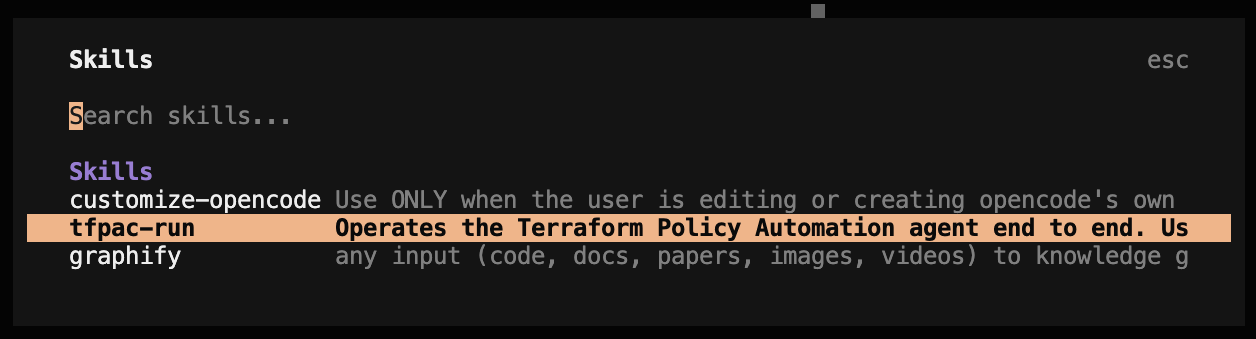
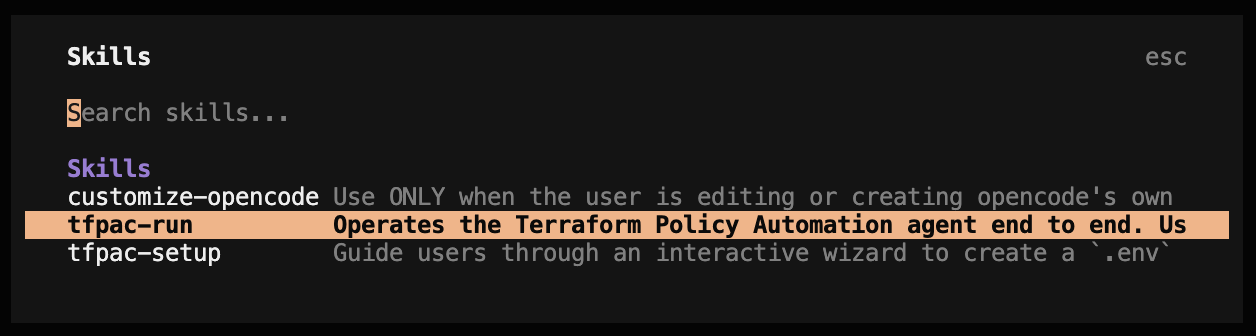
docs: change photos

diff --git a/USER_GUIDE.md b/USER_GUIDE.md
@@ -321,41 +321,35 @@ Press Enter in this state to execute the skill.
 
 ![Local or External](photo/run/(4)local_or_external.png)
 
-Here, select "1. Manual setup".
+Here, select "1. Convert from Sentinel - Manual Setup".
 
-### Step 5: Pre-execution checks
+### Step 5: Output directory cleanup
 
-![Pre-check](photo/run/(5)precheck.png)
-
-The system performs pre-execution checks to verify all requirements are met before starting the conversion.
-
-### Step 6: Output directory cleanup
-
-![Output Cleanup](photo/run/(6)output_cleanup.png)
+![Output Cleanup](photo/run/(5)output_cleanup.png)
 
 If an output directory exists, you will be asked what to do with it. Choose to create a backup or cleanup to avoid conflicts.
 
-### Step 7: Pipeline execution starts
+### Step 6: Pipeline execution starts
 
-![Run Script](photo/run/(7)run.sh.png)
+![Run Script](photo/run/(6)run.sh.png)
 
 The `run.sh` script begins executing the policy conversion pipeline.
 
-### Step 8: Select reporting time interval
+### Step 7: Select reporting time interval
 
-![Time Selection](photo/run/(8)time_selection.png)
+![Time Selection](photo/run/(7)time_selection.png)
 
 Select the time interval for reporting the process status.
 
-### Step 9: Interim progress report
+### Step 8: Interim progress report
 
-![Interim Report](photo/run/(9)interim_report.png)
+![Interim Report](photo/run/(8)interim_report.png)
 
 The system provides interim reports to inform you of the current execution status, showing completed stages and progress.
 
-### Step 10: Final conversion report
+### Step 9: Final conversion report
 
-![Final Report](photo/run/(10)final_report.png)
+![Final Report](photo/run/(9)final_report.png)
 
 Review the final report showing all converted policies, success rates, and any issues encountered.
 
